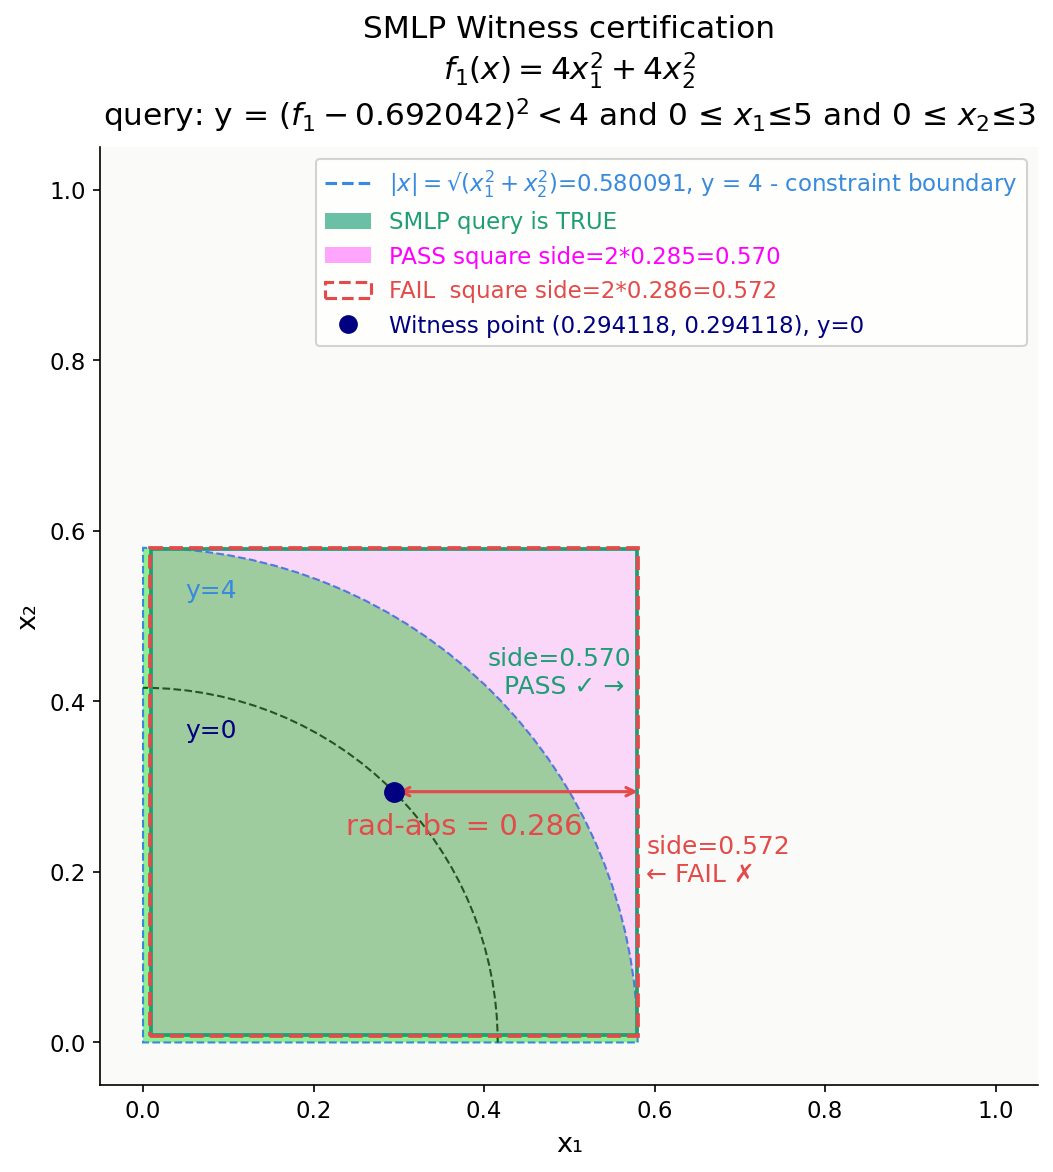
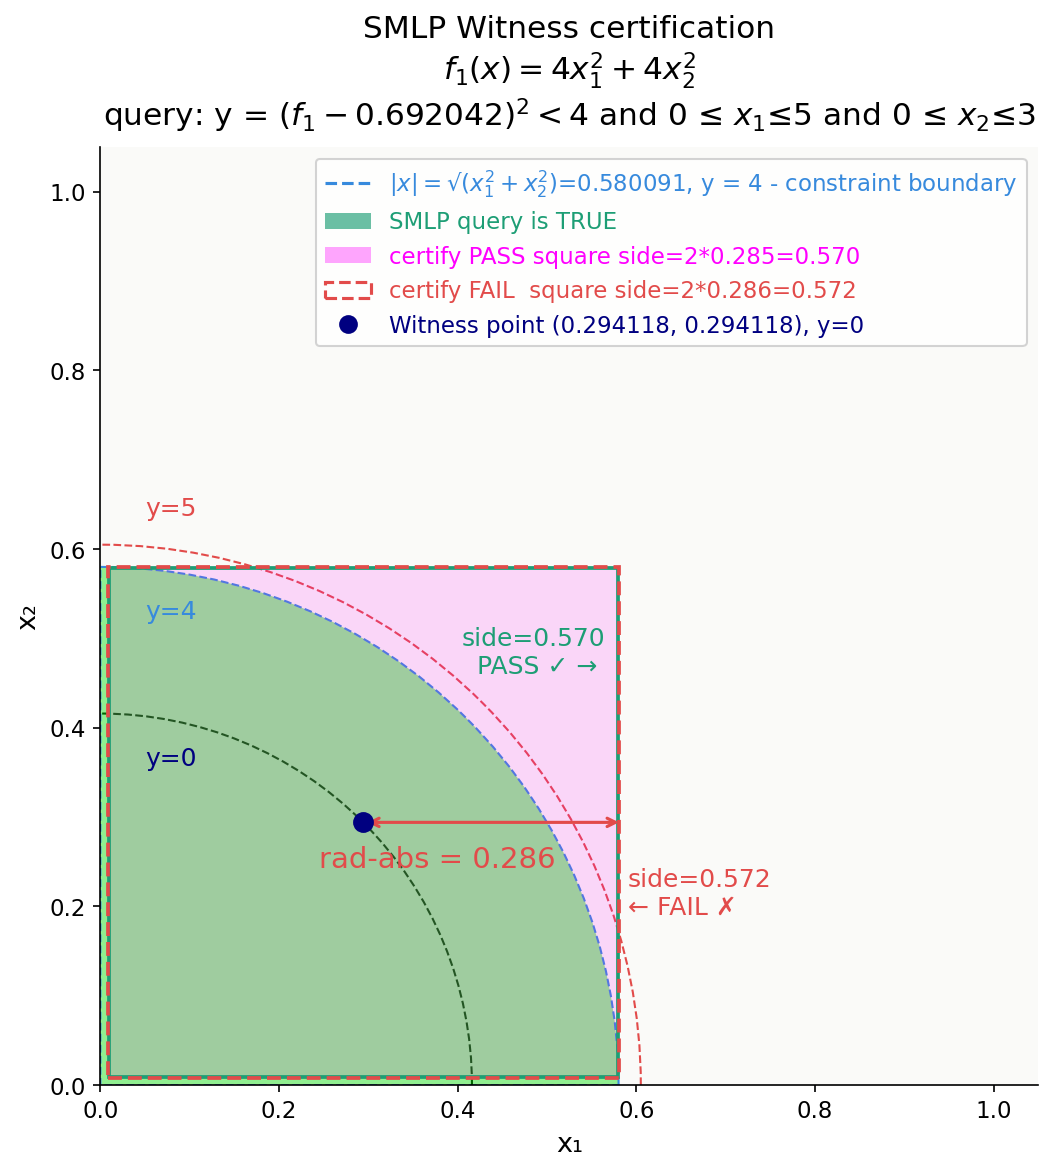
Fixes after the review [2]

diff --git a/tutorial/examples/bnh/smlp/witness_certify_plot.py b/tutorial/examples/bnh/smlp/witness_certify_plot.py
@@ -37,8 +37,8 @@ matplotlib.rcParams.update({
 # ════════════════════════════════════════════════════════════════════════════
 def plot_geometry(ax):
     ax.set_aspect("equal")
-    ax.set_xlim(-0.05, 1.05)
-    ax.set_ylim(-0.05, 1.05)
+    ax.set_xlim(0.0, 1.05)
+    ax.set_ylim(0.0, 1.05)
     ax.set_xlabel("x₁", fontsize=13)
     ax.set_ylabel("x₂", fontsize=13)
     ax.tick_params(labelsize=11)
@@ -52,6 +52,13 @@ def plot_geometry(ax):
     wedge = mpatches.Wedge((0,0), R_constraint, 0, 90, facecolor=C_LIGHTGREEN, edgecolor=C_BLUE, linestyle='--')
     ax.add_patch(wedge)
     ax.text(0.05, R_constraint - 0.05, "y=4", fontsize=12, color=C_BLUE, va="center")
+
+    # ── Arc for y = 9 ────────────────────────────────────────────────────
+    x0 = 0.427793
+    px = py = x0
+    arc0 = mpatches.Arc((0,0), px*2*sqrt(2), py*2*sqrt(2), angle=0, theta1=0, theta2=90, color=C_RED, linestyle='--')
+    ax.add_patch(arc0)
+    ax.text(0.05, py*sqrt(2) + 0.04, "y=5", fontsize=12, color=C_RED, va="center")
 
     # ── Arc for y = 0 ────────────────────────────────────────────────────
     x0 = 0.294118
@@ -72,7 +79,7 @@ def plot_geometry(ax):
     ax.add_patch(mpatches.Rectangle(
         (px - hs_pass, py - hs_pass), 2 * hs_pass, 2 * hs_pass,
         facecolor="none", edgecolor=C_GREEN, lw=1.8, zorder=3))
-    ax.text(px + hs_pass - 0.175, py + 0.14,
+    ax.text(px + hs_pass - 0.175, py + 0.19,
             f"side={2*hs_pass:.3f}\n  PASS ✓ →", fontsize=12,
             color=C_GREEN, va="center")
 
@@ -98,9 +105,9 @@ def plot_geometry(ax):
         mpatches.Patch(facecolor=C_GREEN, alpha=0.65,
                        label=f"SMLP query is TRUE"),
         mpatches.Patch(facecolor=C_MAGENTA, alpha=0.35,
-                       label=f"PASS square side=2*{hs_pass}={2*hs_pass:.3f}"),
+                       label=f"certify PASS square side=2*{hs_pass}={2*hs_pass:.3f}"),
         mpatches.Patch(facecolor="none", edgecolor=C_RED, lw=1.5,
-                       linestyle="--", label=f"FAIL  square side=2*{hs_fail}={2*hs_fail:.3f}"),
+                       linestyle="--", label=f"certify FAIL  square side=2*{hs_fail}={2*hs_fail:.3f}"),
         Line2D([0], [0], marker="o", color=C_NAVYBLUE, lw=0,
                markersize=8, label=f"Witness point ({x0}, {x0}), y=0"),
     ]

diff --git a/tutorial/README.md b/tutorial/README.md
@@ -241,7 +241,7 @@ In decision space:
 Below we demonstrate SMLP robustness certification accuracy for the second Pareto front point of the function `f₁`.<br>
 We check (*certify*) stability of analytical Pareto solution (*witness*) `f₁(x₁,x₂) = 0.692042`<br>
 where  `x₁' = x₂' = 0.294118` within stability region.<br>
-The stability region is defined as a square with apothem `rad-abs`.<br>
+The stability region is defined as a square with [inradius](https://mathworld.wolfram.com/Inradius.html) `rad-abs`.<br>
 Assertion, chosen for this example:
 
 ```
@@ -253,7 +253,7 @@ Analytical solution for this problem:<br>
 
 **SMLP results:**
 
-![CERTIFY_RESULT](examples/bnh/smlp/media/witness_certify.png)<br>
+![CERTIFY_RESULT](examples/bnh/smlp/media/witness_certify_0.5x.png)<br>
 
 From this plot one can see that as expected:
 - <p style="color: green;">assertion passes for rad-abs=0.285</p>
